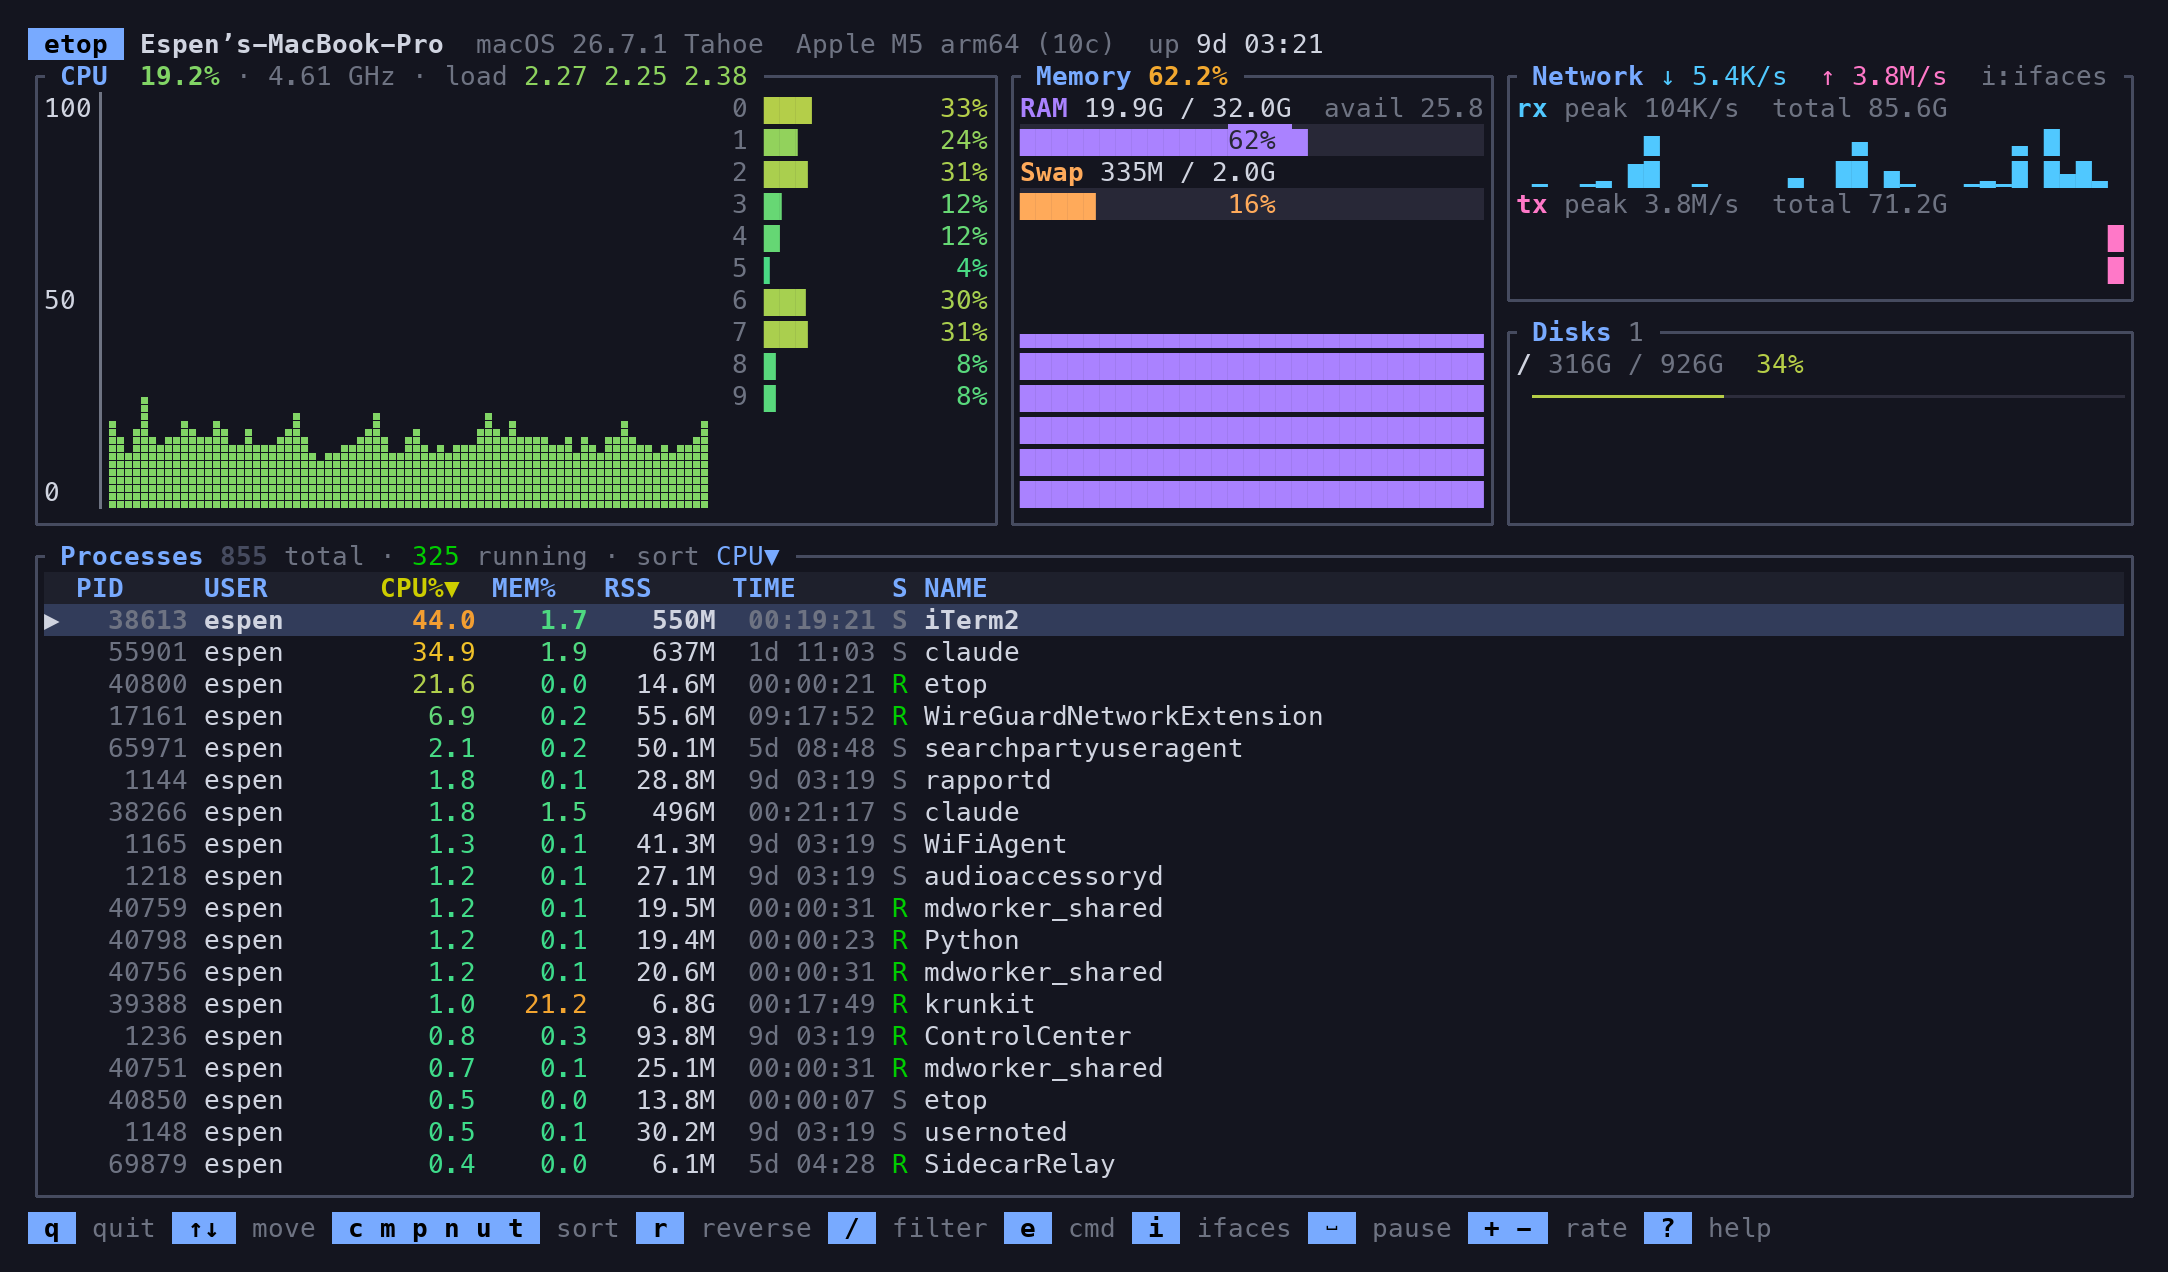
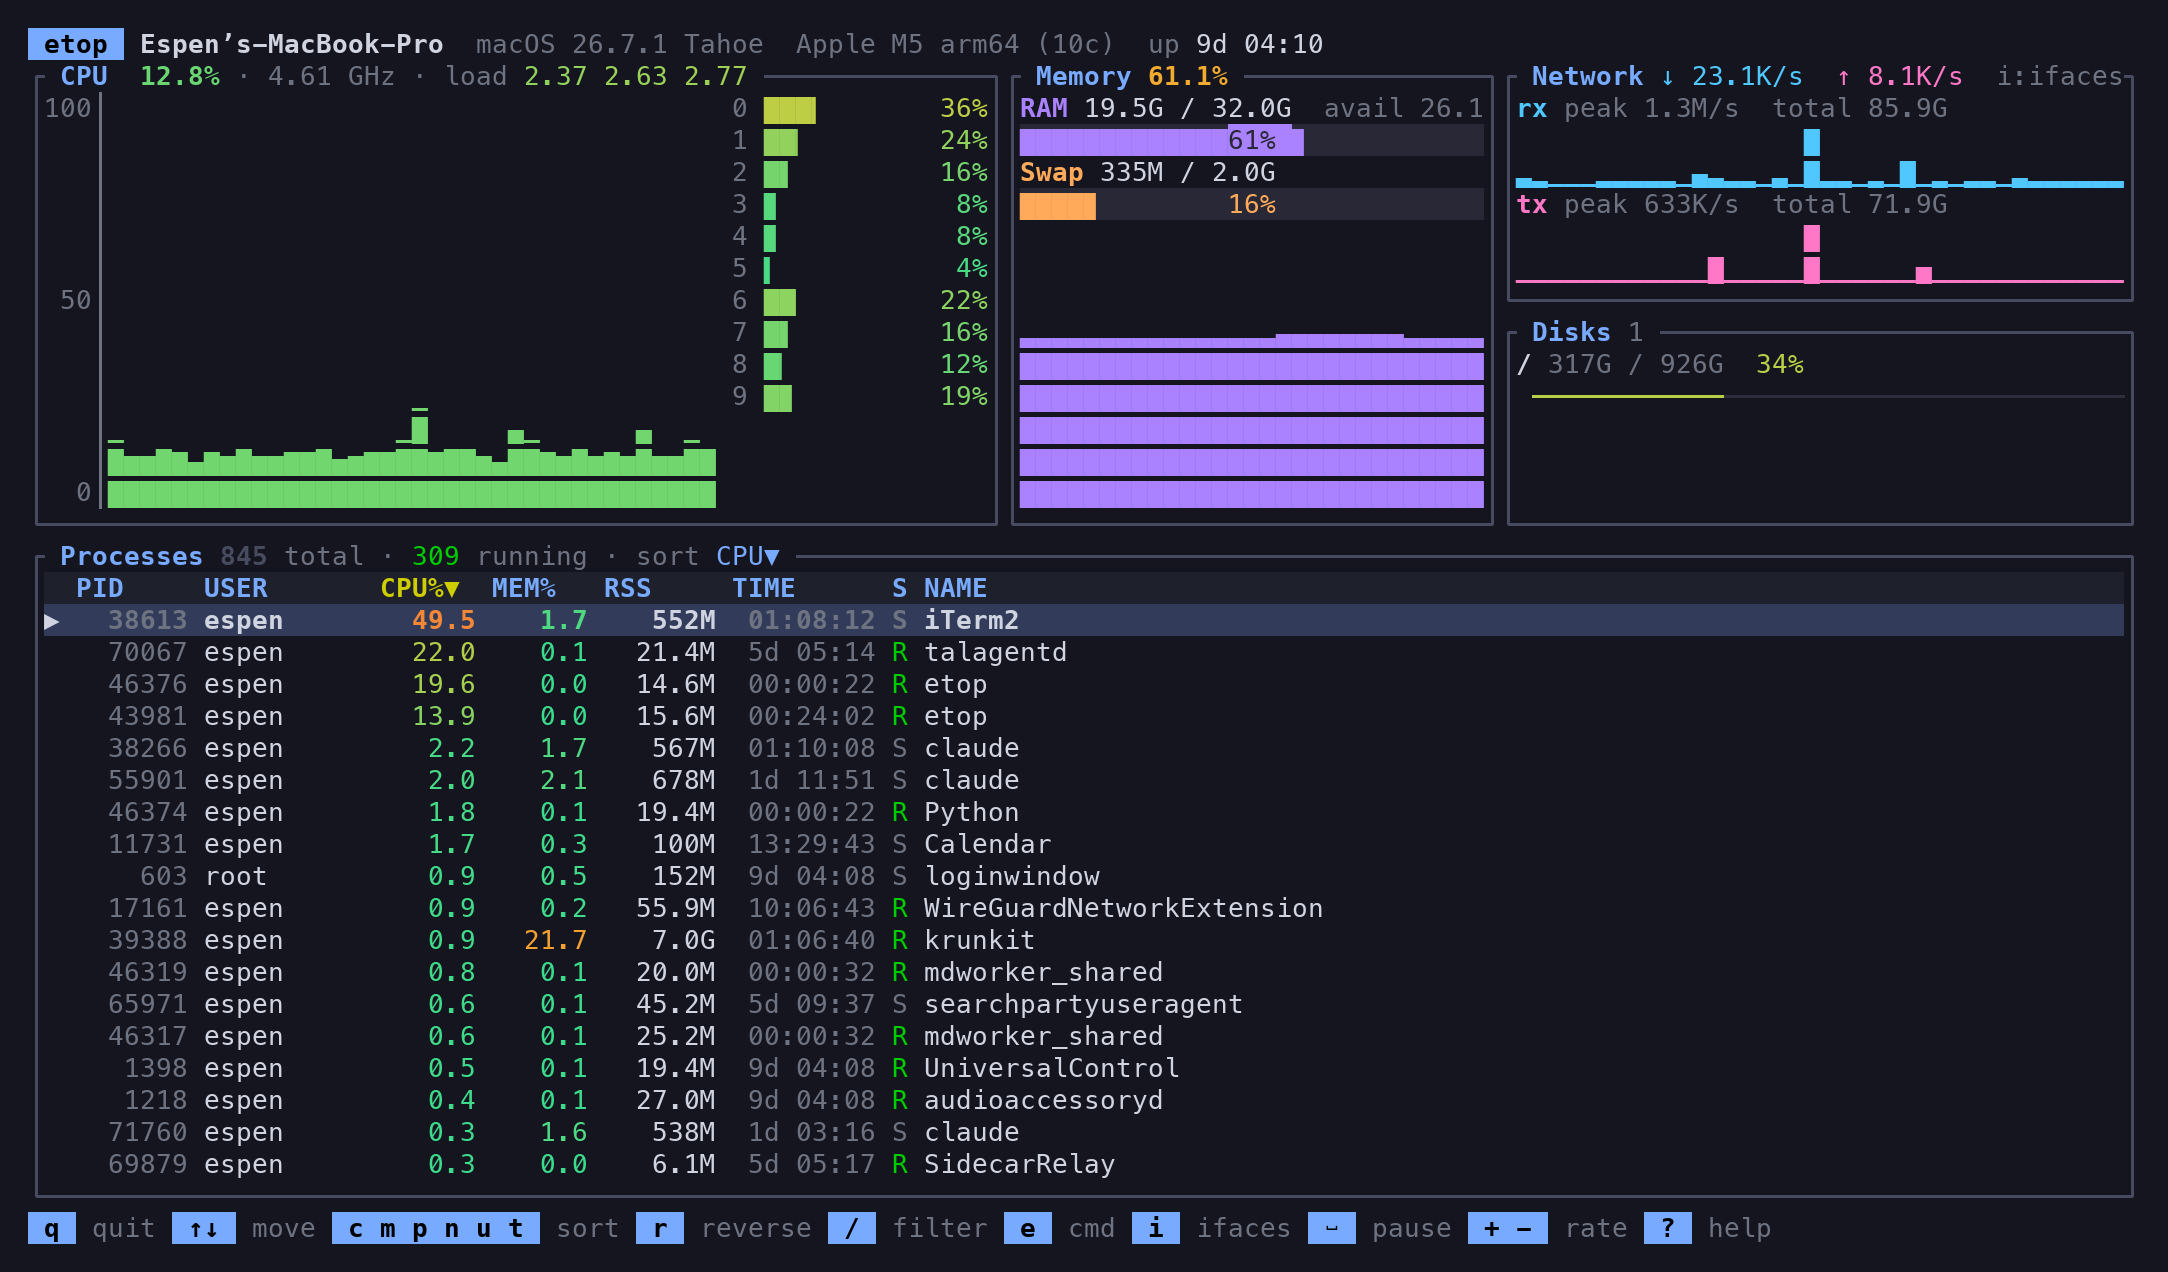
Draw CPU and network history with eight-step block bars
Replace the Braille area chart and the sparklines with a shared renderer
that uses the full-width lower block characters, one reading per cell
and eight heights per row. Any non-zero reading shows at least one
eighth so light traffic stays visible.

diff --git a/src/ui.rs b/src/ui.rs
@@ -1,11 +1,10 @@
 use ratatui::Frame;
 use ratatui::layout::{Alignment, Constraint, Layout, Rect};
 use ratatui::style::{Color, Modifier, Style, Stylize};
-use ratatui::symbols::{self, Marker};
+use ratatui::symbols;
 use ratatui::text::{Line, Span};
 use ratatui::widgets::{
-    Axis, Block, BorderType, Cell, Chart, Clear, Dataset, Gauge, GraphType, LineGauge, Paragraph,
-    Row, Sparkline, Table,
+    Block, BorderType, Cell, Clear, Gauge, LineGauge, Paragraph, Row, Sparkline, Table,
 };
 
 use crate::app::{App, Mode, SortBy};
@@ -147,32 +146,37 @@ fn draw_cpu(frame: &mut Frame, app: &App, area: Rect) {
     let [chart_area, cores_area] =
         Layout::horizontal([Constraint::Min(16), Constraint::Length(cores_w)]).areas(inner);
 
-    // History chart, right-aligned so the newest sample touches the right edge.
-    let width = (chart_area.width as usize * 2).max(2);
+    // History chart: y-axis labels, axis line, then one bar per column with
+    // the newest sample at the right edge.
+    let [lbl_a, axis_a, bars_a] = Layout::horizontal([
+        Constraint::Length(3),
+        Constraint::Length(1),
+        Constraint::Min(0),
+    ])
+    .areas(chart_area);
+    let rows = chart_area.height as usize;
+    let mut labels = vec![Line::default(); rows];
+    labels[rows - 1] = Line::from("  0".fg(DIM));
+    if rows >= 2 {
+        labels[0] = Line::from("100".fg(DIM));
+    }
+    if rows >= 3 {
+        labels[rows / 2] = Line::from(" 50".fg(DIM));
+    }
+    frame.render_widget(Paragraph::new(labels), lbl_a);
+    frame.render_widget(Paragraph::new(vec![Line::from("│".fg(DIM)); rows]), axis_a);
+    let width = bars_a.width as usize;
     let hist = &app.cpu_hist;
     let start = hist.len().saturating_sub(width);
-    let offset = width.saturating_sub(hist.len());
-    let points: Vec<(f64, f64)> = hist
-        .iter()
-        .skip(start)
-        .enumerate()
-        .map(|(i, v)| ((offset + i) as f64, *v))
+    let pad = width.saturating_sub(hist.len());
+    let values: Vec<Option<u64>> = std::iter::repeat_n(None, pad)
+        .chain(hist.iter().skip(start).map(|v| Some(v.round() as u64)))
         .collect();
-    let ds = Dataset::default()
-        .marker(Marker::Braille)
-        .graph_type(GraphType::Area)
-        .style(Style::new().fg(heat(pct)))
-        .data(&points);
-    let chart = Chart::new(vec![ds])
-        .x_axis(Axis::default().bounds([0.0, width as f64]))
-        .y_axis(
-            Axis::default()
-                .bounds([0.0, 100.0])
-                .labels(["0", "50", "100"])
-                .style(Style::new().fg(DIM)),
-        )
-        .legend_position(None);
-    frame.render_widget(chart, chart_area);
+    let lines: Vec<Line> = eighth_bars(&values, 100, width, rows)
+        .into_iter()
+        .map(|l| Line::from(l.fg(heat(pct))))
+        .collect();
+    frame.render_widget(Paragraph::new(lines), bars_a);
 
     // Per-core bars.
     let per_col = n.div_ceil(cols);
@@ -325,13 +329,13 @@ fn draw_net(frame: &mut Frame, app: &App, area: Rect) {
             lbl,
         );
         if graph.height > 0 {
-            frame.render_widget(
-                Sparkline::default()
-                    .data(tail(hist, graph.width as usize))
-                    .absent_value_symbol(" ")
-                    .style(Style::new().fg(color)),
-                graph,
-            );
+            let values = tail(hist, graph.width as usize);
+            let max = values.iter().flatten().copied().max().unwrap_or(0);
+            let lines = eighth_bars(&values, max, graph.width as usize, graph.height as usize)
+                .into_iter()
+                .map(|l| Line::from(l.fg(color)))
+                .collect::<Vec<_>>();
+            frame.render_widget(Paragraph::new(lines), graph);
         }
     }
 }
@@ -691,6 +695,35 @@ fn centered(area: Rect, w: u16, h: u16) -> Rect {
     }
 }
 
+/// Render `values` as vertical bars one cell wide using the eight-step lower
+/// block characters `▁` to `█`, scaled so `max` reaches the top. Returns one
+/// string per text row, top row first. `None` and zero values leave the
+/// column blank; any other value is at least one eighth of a row tall.
+fn eighth_bars(values: &[Option<u64>], max: u64, cols: usize, rows: usize) -> Vec<String> {
+    const STEPS: [char; 8] = ['▁', '▂', '▃', '▄', '▅', '▆', '▇', '█'];
+    let max_steps = rows * 8;
+    let height = |i: usize| -> usize {
+        match values.get(i).copied().flatten() {
+            None | Some(0) => 0,
+            Some(v) => {
+                let h = (v as f64 / max.max(1) as f64 * max_steps as f64).ceil() as usize;
+                h.clamp(1, max_steps)
+            }
+        }
+    };
+    (0..rows)
+        .map(|r| {
+            let below = (rows - 1 - r) * 8;
+            (0..cols)
+                .map(|c| match height(c).saturating_sub(below).min(8) {
+                    0 => ' ',
+                    n => STEPS[n - 1],
+                })
+                .collect()
+        })
+        .collect()
+}
+
 /// Last `width` samples, left-padded with `None` so the series is right-aligned.
 fn tail(hist: &std::collections::VecDeque<u64>, width: usize) -> Vec<Option<u64>> {
     let start = hist.len().saturating_sub(width);
@@ -724,6 +757,34 @@ mod tests {
         assert_eq!(centered(area, 20, 10), Rect::new(50, 40, 20, 10));
         // Larger than the area: shrink to fit instead of overflowing.
         assert_eq!(centered(area, 500, 500), area);
+    }
+
+    #[test]
+    fn eighth_bars_steps_through_all_eight_levels() {
+        let v: Vec<Option<u64>> = (0..=8).map(Some).collect();
+        assert_eq!(eighth_bars(&v, 8, 9, 1), vec![" ▁▂▃▄▅▆▇█"]);
+    }
+
+    #[test]
+    fn eighth_bars_stacks_rows_and_pads_missing() {
+        // Two rows (16 steps), three cells: absent, full, and 10/16.
+        let out = eighth_bars(&[None, Some(16), Some(10)], 16, 3, 2);
+        assert_eq!(out, vec![" █▂", " ██"]);
+        // Short input leaves trailing cells blank; zero rows gives nothing.
+        assert_eq!(eighth_bars(&[Some(1)], 1, 3, 1), vec!["█  "]);
+        assert!(eighth_bars(&[Some(1)], 1, 3, 0).is_empty());
+    }
+
+    #[test]
+    fn eighth_bars_shows_at_least_one_step_for_traffic() {
+        assert_eq!(
+            eighth_bars(&[Some(1), Some(0)], 1_000_000, 2, 2),
+            vec!["  ", "▁ "]
+        );
+        // Zero max does not divide by zero and zero traffic stays blank.
+        assert_eq!(eighth_bars(&[Some(0)], 0, 1, 1), vec![" "]);
+        // Values above max are clamped to a full bar.
+        assert_eq!(eighth_bars(&[Some(500)], 100, 1, 1), vec!["█"]);
     }
 
     #[test]
